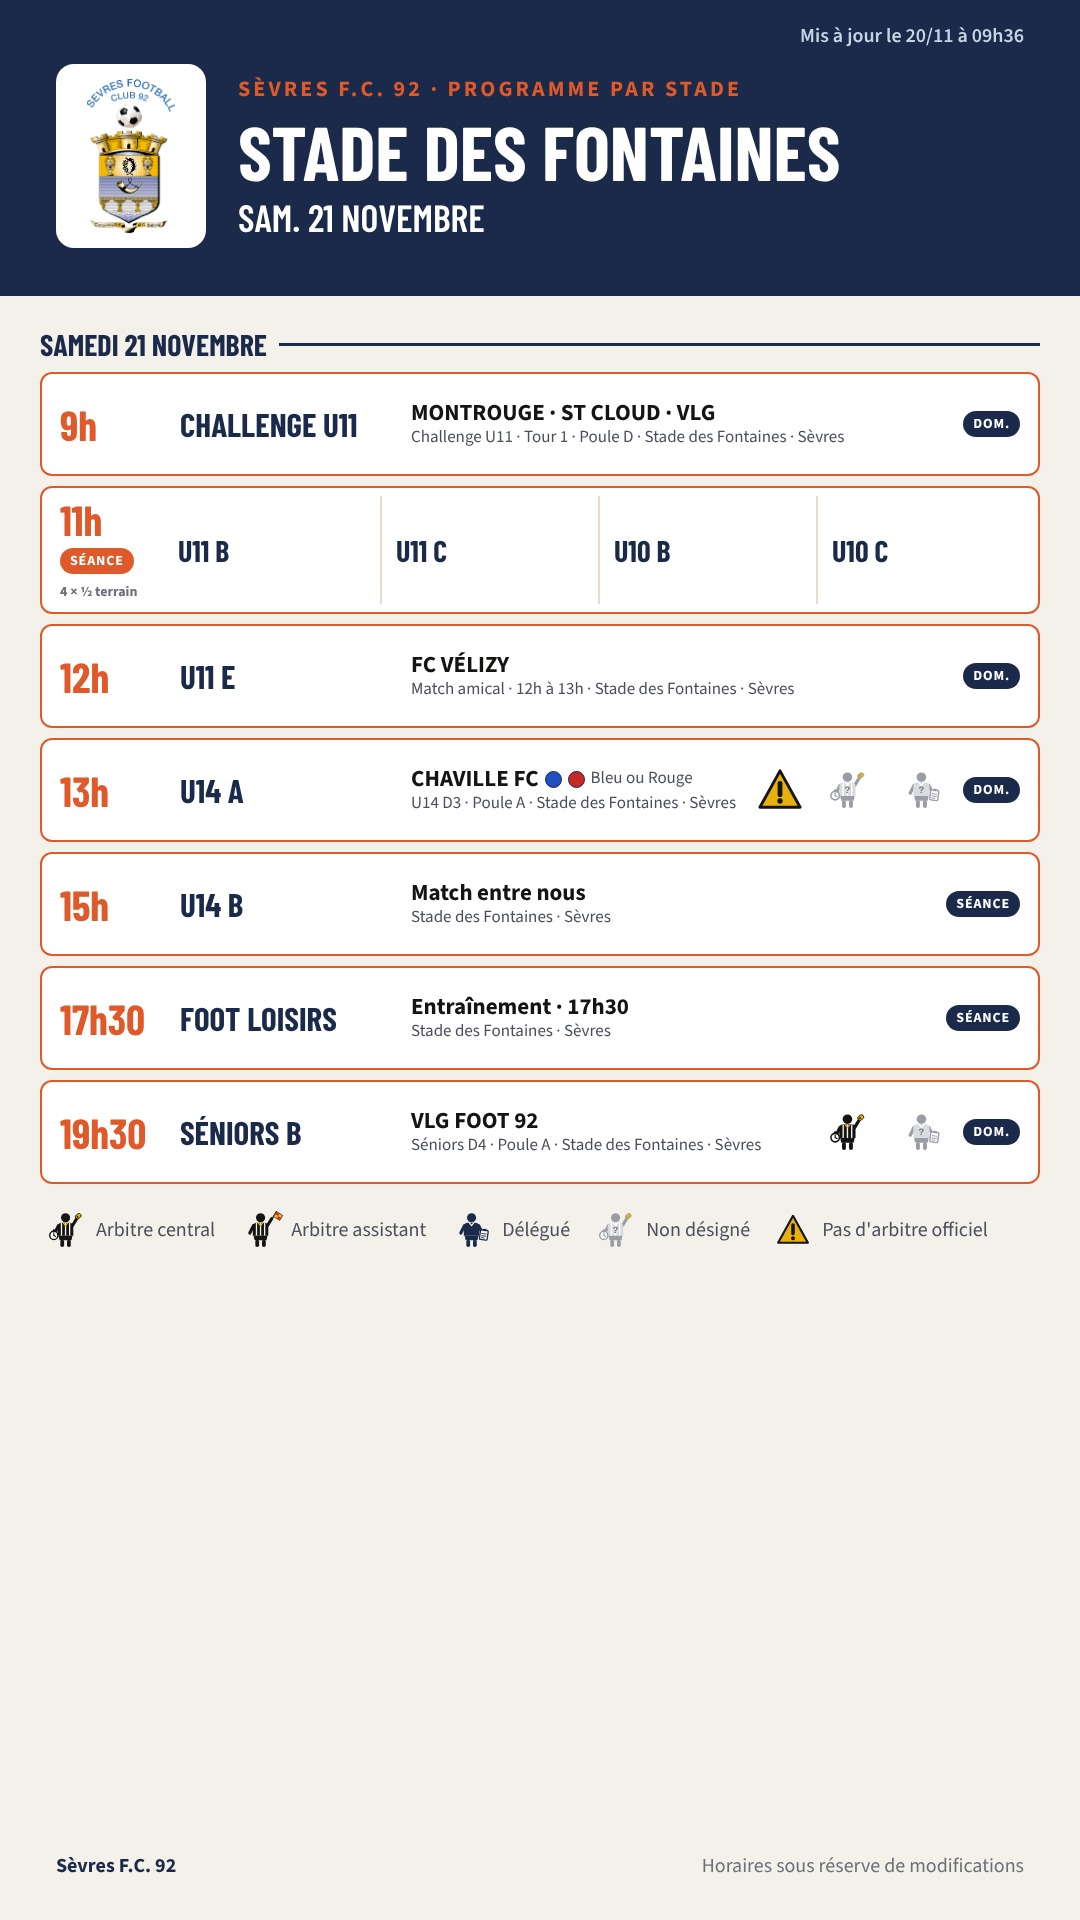
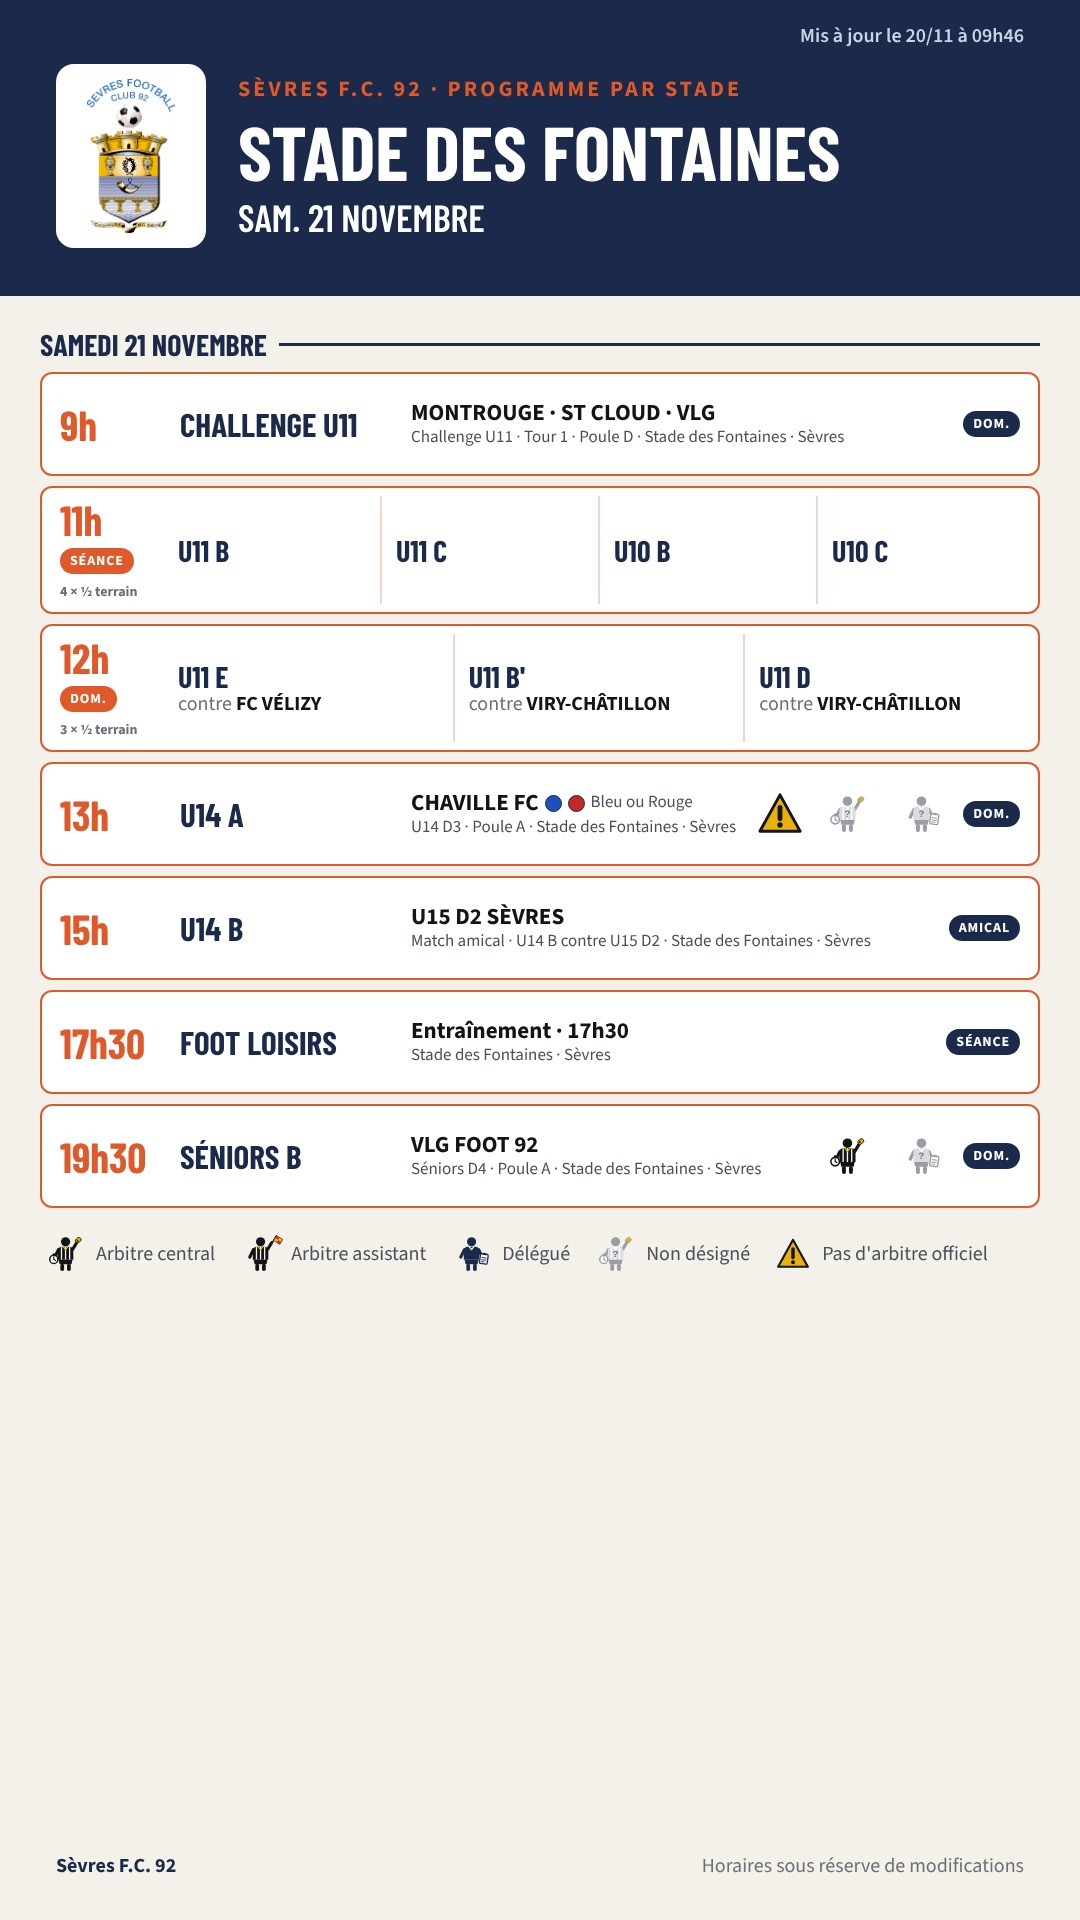
Affiches 21-23 nov. : amicaux contre Viry à domicile, U14 B contre U15 D2
Claude-Session: https://claude.ai/code/session_01Ce6bnAAqFwh5XpUpKRCk2S

Changed region(s): [[0.0306, 0.3125, 0.9778, 0.6562]]

diff --git a/index.html b/index.html
@@ -61,7 +61,7 @@ footer .wrap{padding-block:16px 28px}
 <header><div class="wrap">
   <div class="brand">
     <img src="logo.png" alt="Logo Sèvres F.C. 92">
-    <div><h1>Le week-end <em>du Sèvres F.C. 92</em></h1><span class="maj"><!--MAJ-->Mis à jour le 20/11 à 9h38<!--/MAJ--></span><p>Tous les matchs du club, à domicile et à l'extérieur</p></div>
+    <div><h1>Le week-end <em>du Sèvres F.C. 92</em></h1><span class="maj"><!--MAJ-->Mis à jour le 20/11 à 9h47<!--/MAJ--></span><p>Tous les matchs du club, à domicile et à l'extérieur</p></div>
   </div>
   <div class="weeks" id="weeks" role="group" aria-label="Choisir le week-end"></div>
 </div></header>
